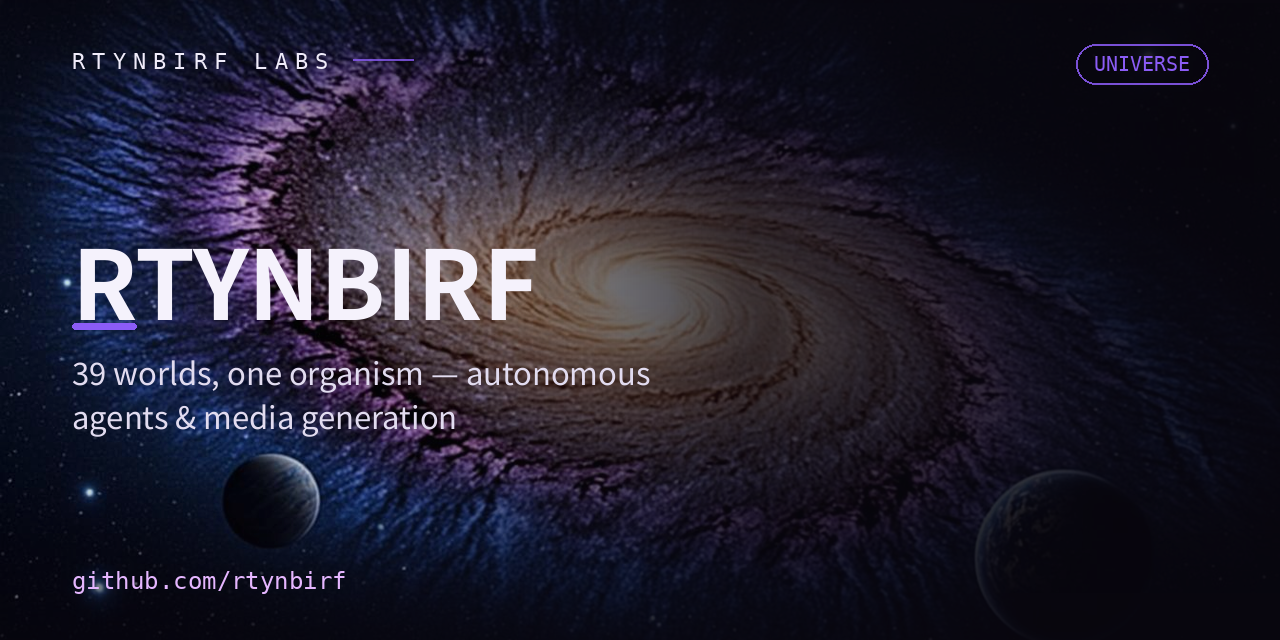
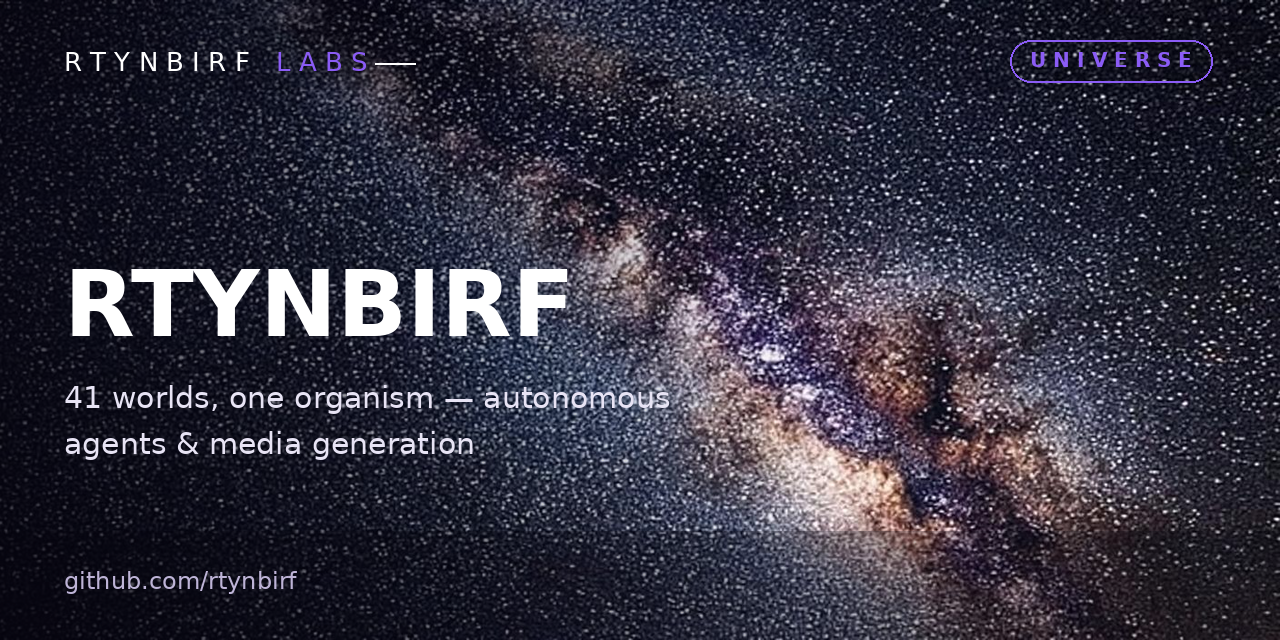
баннер-правда: 41 worlds (счётчики профиля 12:16 UTC как свидетельство); баннер+портрет+alt синхронно

diff --git a/README.md b/README.md
@@ -1,5 +1,5 @@
 <div align="center">
-  <img src="banner.png" width="100%" alt="rtynbirf — 39 worlds, one organism">
+  <img src="banner.png" width="100%" alt="rtynbirf — 41 worlds, one organism">
 </div>
 
 # rtynbirf · AUTONOMOUS SYSTEMS LAB
